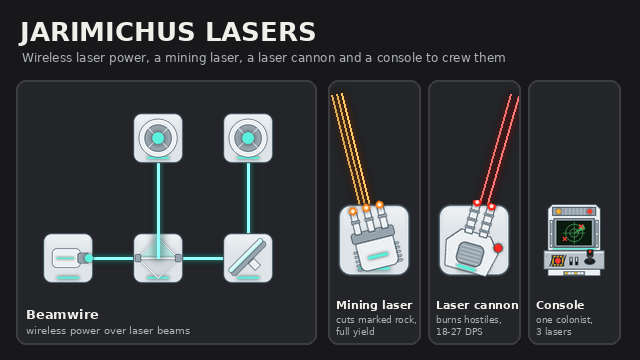
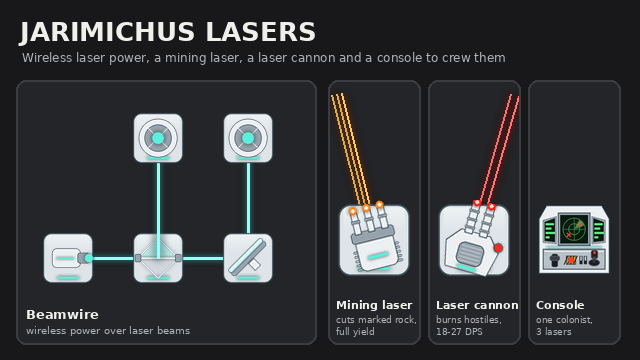
Laser control console: wraparound cockpit design
A radar scope between two angled status screens, and a deck with a throttle
on the left, a guarded fire button and arming switches in the middle, and the
flight stick on the right. Chosen from six variants. Gravship look included;
README, About and the Workshop preview updated.

Claude-Session: https://claude.ai/code/session_01RPUcRCaJ5HrcRVLy6MDcDw

Changed region(s): [[0.8438, 0.55, 0.9688, 0.7639]]

diff --git a/Tools/art_laser_cannon.py b/Tools/art_laser_cannon.py
@@ -252,84 +252,105 @@ def ship_art():
     save(down(ship_top()), "Ship", f"{NODE}_ShipTop.png")
 
 
-
 # ---------------------------------------------------------------- laser control console
-def console_art(st):
-    """A military fire-control station built like an arcade cabinet, seen from above and in front: an armoured
-    hood with warning lamps at the back (north), a green radar scope with red target marks, and an armoured
-    control deck toward the operator (south) with a flight-stick grip, a guarded fire button and toggle switches."""
-    img = blank()
-    d = ImageDraw.Draw(img); o = rgba(st["outline"]); ow = max(3, st["ow"] - 2)
-    r = 4 if st["deco"] in ("vents", "engrave", "hazard") else 10
-    red = (255, 60, 45, 255); phosphor = (110, 255, 140, 255)
-    metal, dark, lo, hi = rgba(st["metal"]), rgba(st["metal_dark"]), rgba(st["plate_lo"]), rgba(st["plate_hi"])
-    # armoured cabinet with chamfered top corners and bolted side plates
-    d.polygon([(58, 14), (S - 58, 14), (S - 44, 28), (S - 44, S - 14), (44, S - 14), (44, 28)], fill=metal, outline=o)
-    d.line([(58, 14), (S - 58, 14), (S - 44, 28), (S - 44, S - 14), (44, S - 14), (44, 28), (58, 14)], fill=o, width=ow, joint="curve")
-    for x0 in (50, S - 60):
-        d.rectangle([x0, 64, x0 + 10, 152], fill=dark, outline=o, width=2)
-        for y in (70, 108, 146):
-            d.ellipse([x0 + 3, y - 2, x0 + 7, y + 2], fill=hi)
-    # hood: an armoured visor over the scope, with amber and red status lamps instead of a lit marquee
-    d.rectangle([58, 22, S - 58, 50], fill=dark, outline=o, width=3)
-    for x in range(66, S - 66, 12):
-        d.line([(x, 26), (x, 46)], fill=lo, width=3)  # vent slots
-    lamps = blank(); ld = ImageDraw.Draw(lamps)
-    for x, col in ((78, (255, 170, 40, 255)), (S - 78, red)):
-        ld.ellipse([x - 7, 29, x + 7, 43], fill=col)
-    img.alpha_composite(glow_layer(lamps, 5))
-    d = ImageDraw.Draw(img)
-    # radar scope: green phosphor, range rings, a sweep and red target marks
-    d.rectangle([62, 58, S - 62, 152], fill=dark, outline=o, width=ow)
-    d.rectangle([72, 66, S - 72, 144], fill=(10, 26, 16, 255))
-    scr = blank(); sd = ImageDraw.Draw(scr); c = (S // 2, 105)
-    for rr in (14, 28):
-        sd.ellipse([c[0] - rr, c[1] - rr, c[0] + rr, c[1] + rr], outline=phosphor[:3] + (150,), width=2)
-    sd.line([(c[0] - 36, c[1]), (c[0] + 36, c[1])], fill=phosphor[:3] + (120,), width=2)
-    sd.line([(c[0], c[1] - 36), (c[0], c[1] + 36)], fill=phosphor[:3] + (120,), width=2)
-    sd.polygon([c, (c[0] + 30, c[1] - 26), (c[0] + 36, c[1] - 12)], fill=phosphor[:3] + (110,))  # sweep
-    for bx, by in ((150, 84), (98, 124)):
-        sd.line([(bx - 6, by - 6), (bx + 6, by + 6)], fill=red, width=3)
-        sd.line([(bx - 6, by + 6), (bx + 6, by - 6)], fill=red, width=3)
-    img.alpha_composite(glow_layer(scr, 4))
-    d = ImageDraw.Draw(img)
-    # armoured control deck, bolted at the corners
-    d.rectangle([30, 160, S - 30, 222], fill=lo, outline=o, width=ow)
-    d.line([(36, 168), (S - 36, 168)], fill=hi, width=3)
-    for x, y in ((38, 176), (S - 38, 176), (38, 214), (S - 38, 214)):
-        d.ellipse([x - 3, y - 3, x + 3, y + 3], fill=hi, outline=o, width=1)
-    # flight-stick grip: boot, shaft, black grip with a red thumb button and a trigger
-    jx, jy = S - 78, 196  # on the right-hand side
+_RED = (255, 60, 45, 255); _TEAL = (90, 240, 220, 255); _AMBER = (255, 170, 40, 255)
+_PHOS = (110, 255, 140)
+
+
+def _console_pal(st):
+    return dict(o=rgba(st["outline"]), ow=max(3, st["ow"] - 2), metal=rgba(st["metal"]), dark=rgba(st["metal_dark"]),
+                lo=rgba(st["plate_lo"]), hi=rgba(st["plate_hi"]), glass=rgba(st["glass"]), ship=st["deco"] == "vents")
+
+
+def _console_glow(img, draw_fn, radius=4):
+    layer = blank(); draw_fn(ImageDraw.Draw(layer)); img.alpha_composite(glow_layer(layer, radius))
+
+
+def _console_joystick(img, p, jx, jy):
+    d = ImageDraw.Draw(img); o = p["o"]
     d.ellipse([jx - 18, jy - 11, jx + 18, jy + 11], fill=(30, 30, 32, 255), outline=o, width=3)
     d.line([(jx, jy), (jx + 2, jy - 18)], fill=(55, 55, 58, 255), width=8)
     d.rounded_rectangle([jx - 10, jy - 40, jx + 12, jy - 12], radius=7, fill=(36, 38, 36, 255), outline=o, width=3)
-    d.rectangle([jx - 4, jy - 18, jx + 6, jy - 13], fill=(70, 70, 70, 255))  # trigger
-    thumb = blank(); ImageDraw.Draw(thumb).ellipse([jx - 3, jy - 36, jx + 5, jy - 28], fill=red)
-    img.alpha_composite(glow_layer(thumb, 3))
+    d.rectangle([jx - 4, jy - 18, jx + 6, jy - 13], fill=(70, 70, 70, 255))
+    _console_glow(img, lambda g: g.ellipse([jx - 3, jy - 36, jx + 5, jy - 28], fill=_RED), 3)
+
+
+def _console_fire_button(img, p, fx, fy, size=20):
+    d = ImageDraw.Draw(img); o = p["o"]
+    d.rectangle([fx - size, fy - size + 2, fx + size, fy + size - 2], fill=(230, 180, 30, 255), outline=o, width=3)
+    for i in range(-size, size + 1, 10):
+        d.line([(fx + i - 6, fy + size - 2), (fx + i + 6, fy - size + 2)], fill=(30, 30, 30, 255), width=3)
+    d.rectangle([fx - size + 7, fy - size + 9, fx + size - 7, fy + size - 9], fill=(30, 30, 34, 255), outline=o, width=2)
+    _console_glow(img, lambda g: g.ellipse([fx - 9, fy - 9, fx + 9, fy + 9], fill=_RED), 3)
+
+
+def _console_toggles(img, p, xs, y):
     d = ImageDraw.Draw(img)
-    # guarded fire button: red, under a flip-up cover in yellow/black
-    fx, fy = 76, 194
-    d.rectangle([fx - 20, fy - 18, fx + 20, fy + 18], fill=(230, 180, 30, 255), outline=o, width=3)
-    for i in range(-20, 21, 10):
-        d.line([(fx + i - 6, fy + 18), (fx + i + 6, fy - 18)], fill=(30, 30, 30, 255), width=3)
-    d.rectangle([fx - 13, fy - 11, fx + 13, fy + 11], fill=(30, 30, 34, 255), outline=o, width=2)
-    btn = blank(); ImageDraw.Draw(btn).ellipse([fx - 9, fy - 9, fx + 9, fy + 9], fill=red)
-    img.alpha_composite(glow_layer(btn, 3))
+    for x in xs:
+        d.rectangle([x - 5, y - 13, x + 5, y + 13], fill=(30, 30, 34, 255), outline=p["o"], width=2)
+        d.rectangle([x - 2, y - 11, x + 2, y + 1], fill=(200, 200, 205, 255))
+
+
+def _console_radar(img, c, r, contacts=((0.55, -0.4), (-0.45, 0.5)), colour=_PHOS, rings=2):
+    def fn(g):
+        for k in range(1, rings + 1):
+            rr = r * k / rings
+            g.ellipse([c[0] - rr, c[1] - rr, c[0] + rr, c[1] + rr], outline=colour + (150,), width=2)
+        g.line([(c[0] - r, c[1]), (c[0] + r, c[1])], fill=colour + (110,), width=2)
+        g.line([(c[0], c[1] - r), (c[0], c[1] + r)], fill=colour + (110,), width=2)
+        g.pieslice([c[0] - r, c[1] - r, c[0] + r, c[1] + r], -60, -20, fill=colour + (90,))
+        for ux, uy in contacts:
+            bx, by = c[0] + ux * r, c[1] + uy * r
+            g.line([(bx - 6, by - 6), (bx + 6, by + 6)], fill=_RED, width=3)
+            g.line([(bx - 6, by + 6), (bx + 6, by - 6)], fill=_RED, width=3)
+    _console_glow(img, fn, 4)
+
+
+def _console_deck(img, p, box, bolts=True):
     d = ImageDraw.Draw(img)
-    # arming toggle switches
-    for x in (118, 136):
-        d.rectangle([x - 5, 182, x + 5, 208], fill=(30, 30, 34, 255), outline=o, width=2)
-        d.rectangle([x - 2, 184, x + 2, 196], fill=(200, 200, 205, 255))
-    # stencilled unit plate on the front instead of coin slots
-    d.rectangle([S // 2 - 34, 228, S // 2 + 34, 240], fill=dark, outline=o, width=2)
-    for i, x in enumerate(range(S // 2 - 28, S // 2 + 28, 10)):
-        d.rectangle([x, 231, x + 6, 237], fill=hi if i % 3 else (230, 180, 30, 255))
-    if st["deco"] == "hazard":
-        for i in range(44, S - 44, 16):
-            d.line([(i, S - 16), (i + 8, S - 24)], fill=rgba(st["accents"][NODE]), width=4)
-    elif st["deco"] == "strips":
-        strip = blank(); ImageDraw.Draw(strip).rectangle([60, 154, S - 60, 157], fill=rgba(st["glass"]))
-        img.alpha_composite(glow_layer(strip, 5))
+    d.rectangle(box, fill=p["lo"], outline=p["o"], width=p["ow"])
+    d.line([(box[0] + 6, box[1] + 8), (box[2] - 6, box[1] + 8)], fill=p["hi"], width=3)
+    if bolts:
+        for x, y in ((box[0] + 8, box[1] + 16), (box[2] - 8, box[1] + 16), (box[0] + 8, box[3] - 8), (box[2] - 8, box[3] - 8)):
+            d.ellipse([x - 3, y - 3, x + 3, y + 3], fill=p["hi"], outline=p["o"], width=1)
+
+
+def _console_strip(img, p, box):
+    if not p["ship"]:
+        _console_glow(img, lambda g: g.rectangle(box, fill=_TEAL), 5)
+
+
+def console_art(st):
+    """A cockpit-style fire-control station seen from above and in front: an angled radar scope between two
+    angled status screens at the back (north), then a deck toward the operator (south) with a throttle lever on
+    the left, a guarded fire button and arming switches in the middle, and a flight stick on the right."""
+    p = _console_pal(st); img = blank(); d = ImageDraw.Draw(img); o = p["o"]
+    d.polygon([(40, 18), (S - 40, 18), (S - 16, 60), (S - 16, S - 22), (16, S - 22), (16, 60)], fill=p["metal"])
+    d.line([(40, 18), (S - 40, 18), (S - 16, 60), (S - 16, S - 22), (16, S - 22), (16, 60), (40, 18)], fill=o, width=p["ow"], joint="curve")
+    # side screens, angled in
+    for side in (-1, 1):
+        x0 = 28 if side < 0 else S - 72
+        pts = [(x0, 64), (x0 + 44, 52), (x0 + 44, 140), (x0, 136)] if side < 0 else [(x0, 52), (x0 + 44, 64), (x0 + 44, 136), (x0, 140)]
+        d.polygon(pts, fill=p["dark"], outline=o)
+        inner = [(x + (6 if i in (0, 3) else -6) * (1 if side < 0 else 1), y + (6 if i < 2 else -6)) for i, (x, y) in enumerate(pts)]
+        d.polygon(inner, fill=(10, 26, 16, 255))
+        def bars(g, x0=x0):
+            for k, w in enumerate((26, 18, 30, 12)):
+                g.rectangle([x0 + 9, 74 + k * 14, x0 + 9 + w, 80 + k * 14], fill=_PHOS + (200,))
+        _console_glow(img, bars, 2)
+    d = ImageDraw.Draw(img)
+    d.rectangle([76, 40, S - 76, 146], fill=p["dark"], outline=o, width=p["ow"])
+    d.rectangle([84, 48, S - 84, 138], fill=(10, 26, 16, 255))
+    _console_radar(img, (S // 2, 93), 36)
+    _console_deck(img, p, [28, 156, S - 28, 222])
+    # throttle lever on the left
+    d = ImageDraw.Draw(img)
+    d.rounded_rectangle([56, 172, 76, 214], radius=6, fill=(30, 30, 34, 255), outline=o, width=2)
+    d.rounded_rectangle([50, 178, 82, 194], radius=6, fill=(60, 62, 66, 255), outline=o, width=3)
+    _console_fire_button(img, p, 118, 192, size=16)
+    _console_toggles(img, p, (150, 164), 192)
+    _console_joystick(img, p, S - 64, 200)
+    _console_strip(img, p, [40, 150, S - 40, 153])
     return img
 
 

diff --git a/README.md b/README.md
@@ -68,7 +68,7 @@ Put a **beam emitter** on one power grid and a **beam receiver** on another, and
 
 ## Laser control console
 
-A 1x1 fire-control station built like an arcade cabinet: armoured hood, radar scope, guarded fire button, arming switches and a flight-stick on the right (Security tab; research Microelectronics basics; 80 steel, 3 components; 100 W).
+A 1x1 cockpit-style fire-control station: a radar scope flanked by two angled status screens, a throttle, a guarded fire button, arming switches and a flight stick on the right (Security tab; research Microelectronics basics; 80 steel, 3 components; 100 W).
 
 - Use **Link laser** to connect up to **3** laser cannons or mining lasers within **20 tiles**. Selecting it shows its reach and its links.
 - While a colonist mans it, every linked laser counts as manned: cannons get +6 range and ×1.5 damage; mining lasers cut ×1.5 faster, and their **Choose rock** button picks which marked rock they cut next.
